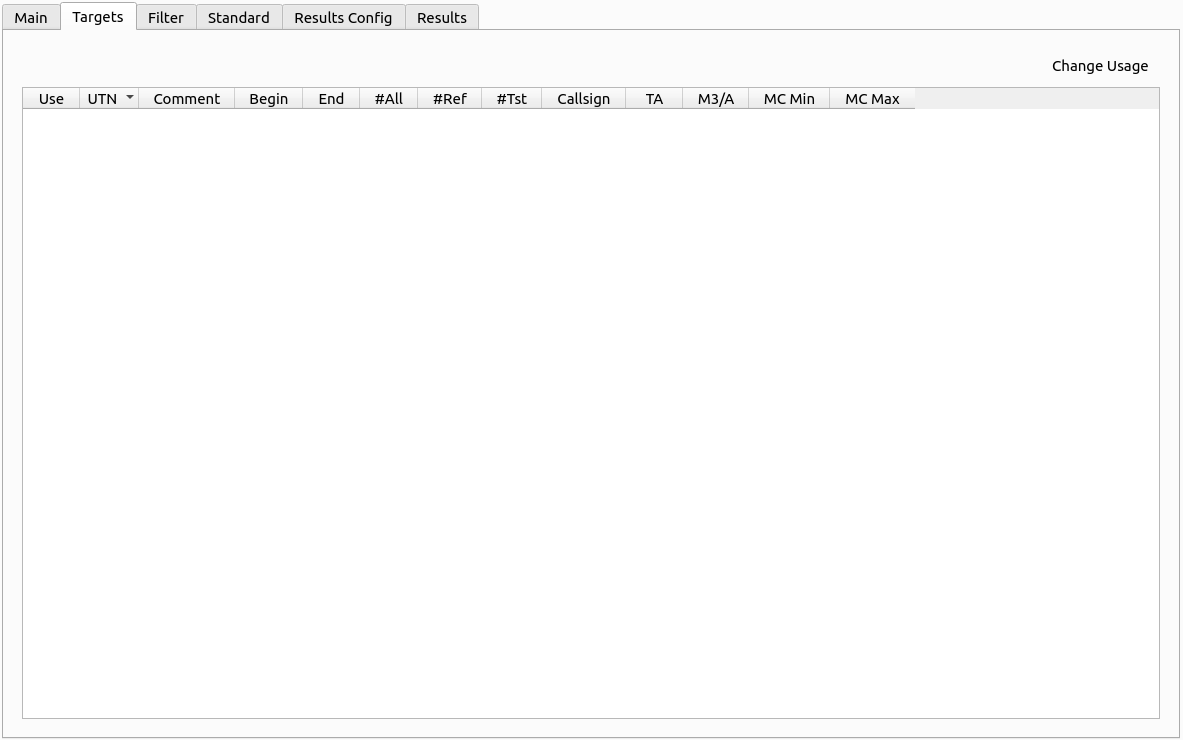
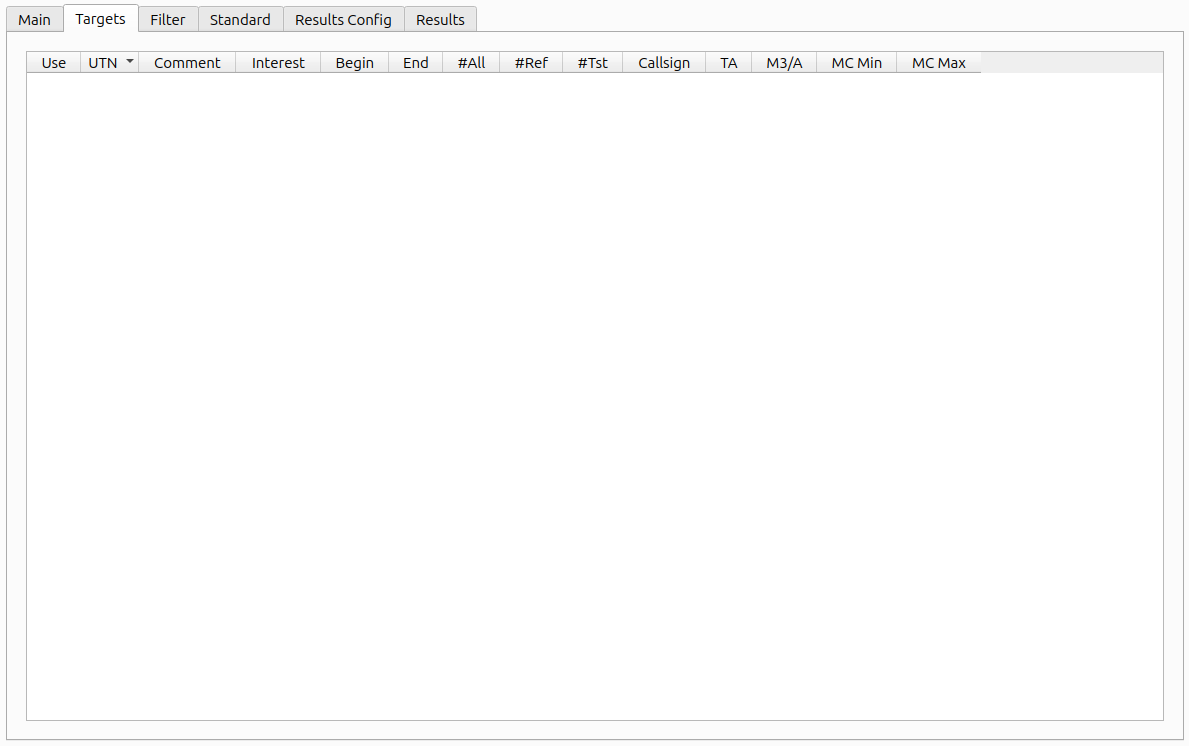
doc up

Changed region(s): [[0.0, 0.0, 1.0, 1.0]]

diff --git a/doc/user_manual/eval/evaluation.tex b/doc/user_manual/eval/evaluation.tex
@@ -16,13 +16,7 @@ The 'Evaluation' tab allows adapting/defining requirement-based standards and co
 
 While it is possible to manually remove single targets from the evaluation, the usage of correct reference data is paramount for the significance of the evaluation results. \\
 
-\includegraphics[width=0.5cm]{../../data/icons/hint.png} \textbf{Please note that the evaluation feature should not be used as a sole basis for decision making - especially not without manually verifying the evaluation results.} \\
-
-There will be improvements in the next releases, and further verification of the results by the author and other users.
-
-\subsection{Target Report Associations}
-
-Since the task only makes use of the Mode S address, non-Mode S data is not evaluated and may even show up as gaps/misses in detection.
+\includegraphics[width=0.5cm]{../../data/icons/hint.png} \textbf{Please note that the evaluation feature should not be used as a sole basis for decision making - especially not without manually verifying the evaluation results.}
 
 \subsection{Sector Altitude Filtering}
 
@@ -45,7 +39,7 @@ To give a few examples what this could mean:
 \end{itemize}
 \ \\
 
-Also, since target secondary attributes (currently only Mode S address) are also used in the 'Target Report Association' task, errors in these attributes might also lead to imperfect data association. This would result in wrong evaluation results in almost all requirements.
+Also, since target secondary attributes are used in the 'Reconstruct References' task, errors in these attributes might also lead to imperfect data association, which could in turn result in wrong evaluation results in some requirements.
 
 \section{Overview}
 \label{sec:eval_overview} 
@@ -165,13 +159,14 @@ The following columns exist:
 \begin{itemize}  
 \item Use: Checkbox defining if the target should be used in the evaluation
 \item UTN: Unique Target Number
+\item Comment: User comment, can be set with double-click, persisted into database
 \item Begin: First timestamp of UTN
 \item End: Last timestamp of UTN
 \item \#All: Sum number of target reports
 \item \#Ref: Number of target reports in reference data
 \item \#Tst: Number of target reports in test data
-\item Callsign: Target identification(s)
-\item TA: Target address (hexadecimal)
+\item ACIDs: Mode S aircraft identification(s)
+\item ACADs: Mode S aircraft address (hexadecimal)
 \item M3/A: Mode 3/A code(s) (octal)
 \item MC Min: Mode C code minimum [ft]
 \item MC Max: Mode C code maximum [ft]
@@ -186,6 +181,14 @@ After loading the data, the table can look as follows:
   \hspace*{-2cm}
     \includegraphics[width=18cm,frame]{figures/eval_targets_loaded.png}
   \caption{Evaluation Targets tab with loaded data}
+\end{figure}
+
+After evaluation (and sorting by interest), the table can look as follows:
+
+\begin{figure}[H]
+  \hspace*{-2cm}
+    \includegraphics[width=18cm,frame]{figures/eval_targets_eval.png}
+  \caption{Evaluation Targets tab with evaluated data}
 \end{figure}
 
 \subsection{Filter Tab}

diff --git a/src/eval/results/base/single.cpp b/src/eval/results/base/single.cpp
@@ -434,7 +434,7 @@ void Single::generateDetailsTable(EvaluationResultsReport::Section& utn_req_sect
 */
 std::vector<std::string> Single::targetTableHeadersCommon() const
 {
-    return { "UTN", "Begin", "End", "Callsign", "TA", "M3/A", "MC Min", "MC Max" };
+    return { "UTN", "Begin", "End", "ACIDs", "ACADs", "M3/A", "MC Min", "MC Max" };
 }
 
 /**
@@ -526,15 +526,15 @@ std::vector<QVariant> Single::targetTableValues() const
 */
 std::vector<Single::TargetInfo> Single::targetInfosCommon() const
 {
-    return { { "UTN"         , "Unique Target Number"           , utn_                             },
-             { "Begin"       , "Begin time of target"           , target_->timeBeginStr().c_str()  },
-             { "End"         , "End time of target"             , target_->timeEndStr().c_str()    },
-             { "Callsign"    , "Mode S target identification(s)", target_->acidsStr().c_str()      }, 
-             { "Target Addr.", "Mode S target address(es)"      , target_->acadsStr().c_str()      },
-             { "Mode 3/A"    , "Mode 3/A code(s)"               , target_->modeACodesStr().c_str() }, 
-             { "Mode C Min"  , "Minimum Mode C code [ft]"       , target_->modeCMinStr().c_str()   },
-             { "Mode C Max"  , "Maximum Mode C code [ft]"       , target_->modeCMaxStr().c_str()   },
-             { "Use"         , "To be used in results"          , use_                             } };
+    return { { "UTN"         , "Unique Target Number"            , utn_                             },
+             { "Begin"       , "Begin time of target"            , target_->timeBeginStr().c_str()  },
+             { "End"         , "End time of target"              , target_->timeEndStr().c_str()    },
+             { "ACIDs"       , "Mode S aicraft identification(s)", target_->acidsStr().c_str()      },
+             { "ACADs"       , "Mode S aircraft address(es)"     , target_->acadsStr().c_str()      },
+             { "Mode 3/A"    , "Mode 3/A code(s)"                , target_->modeACodesStr().c_str() },
+             { "Mode C Min"  , "Minimum Mode C code [ft]"        , target_->modeCMinStr().c_str()   },
+             { "Mode C Max"  , "Maximum Mode C code [ft]"        , target_->modeCMaxStr().c_str()   },
+             { "Use"         , "To be used in results"           , use_                             } };
 }
 
 /**

diff --git a/src/task/import/gps/gpstrailimporttaskwidget.cpp b/src/task/import/gps/gpstrailimporttaskwidget.cpp
@@ -161,7 +161,7 @@ void GPSTrailImportTaskWidget::addConfigTab()
     // target address
 
     ++row;
-    set_target_address_check_ = new QCheckBox("Target Address (hexadecimal)");
+    set_target_address_check_ = new QCheckBox("Aircraft Address (hexadecimal)");
     connect(set_target_address_check_, &QCheckBox::clicked, this, &GPSTrailImportTaskWidget::targetAddressCheckedSlot);
     grid->addWidget(set_target_address_check_, row, 0);
 
@@ -174,7 +174,7 @@ void GPSTrailImportTaskWidget::addConfigTab()
     // callsign
 
     ++row;
-    set_callsign_check_ = new QCheckBox("Callsign");
+    set_callsign_check_ = new QCheckBox("Aircraft Identification");
     connect(set_callsign_check_, &QCheckBox::clicked, this, &GPSTrailImportTaskWidget::callsignCheckedSlot);
     grid->addWidget(set_callsign_check_, row, 0);
 

diff --git a/src/task/import/gps/gpsimportcsvtaskwidget.cpp b/src/task/import/gps/gpsimportcsvtaskwidget.cpp
@@ -146,7 +146,7 @@ void GPSImportCSVTaskWidget::addConfigTab()
     // target address
 
     ++row;
-    set_target_address_check_ = new QCheckBox("Target Address (hexadecimal)");
+    set_target_address_check_ = new QCheckBox("Aircraft Address (hexadecimal)");
     connect(set_target_address_check_, &QCheckBox::clicked, this, &GPSImportCSVTaskWidget::targetAddressCheckedSlot);
     grid->addWidget(set_target_address_check_, row, 0);
 
@@ -159,7 +159,7 @@ void GPSImportCSVTaskWidget::addConfigTab()
     // callsign
 
     ++row;
-    set_callsign_check_ = new QCheckBox("Callsign");
+    set_callsign_check_ = new QCheckBox("Aircraft Identification");
     connect(set_callsign_check_, &QCheckBox::clicked, this, &GPSImportCSVTaskWidget::callsignCheckedSlot);
     grid->addWidget(set_callsign_check_, row, 0);
 

diff --git a/src/eval/data/evaluationdatawidget.cpp b/src/eval/data/evaluationdatawidget.cpp
@@ -37,17 +37,6 @@ EvaluationDataWidget::EvaluationDataWidget(EvaluationData& eval_data, Evaluation
     QVBoxLayout* main_layout = new QVBoxLayout();
 
     // toolbar
-//    toolbar_ = new QToolBar("Tools");
-
-//    QWidget* spacer = new QWidget();
-//    spacer->setSizePolicy(QSizePolicy::Expanding, QSizePolicy::Expanding);
-//    toolbar_->addWidget(spacer);
-
-//    toolbar_->addAction("Change Usage");
-
-//    connect(toolbar_, &QToolBar::actionTriggered, this, &EvaluationDataWidget::actionTriggeredSlot);
-
-//    main_layout->addWidget(toolbar_);
 
     // table
     proxy_model_ = new QSortFilterProxyModel();

diff --git a/src/eval/data/evaluationdata.cpp b/src/eval/data/evaluationdata.cpp
@@ -446,11 +446,11 @@ QVariant EvaluationData::data(const QModelIndex& index, int role) const
         {
             return target.numTstUpdates();
         }
-        else if (col_name == "Callsign")
+        else if (col_name == "ACIDs")
         {
             return target.acidsStr().c_str();
         }
-        else if (col_name == "TA")
+        else if (col_name == "ACADs")
         {
             return target.acadsStr().c_str();
         }

diff --git a/src/eval/data/evaluationdata.h b/src/eval/data/evaluationdata.h
@@ -116,7 +116,7 @@ protected:
     DBContentManager& dbcont_man_;
 
     QStringList table_columns_ {"Use", "UTN", "Comment", "Interest",
-                               "Begin", "End", "#All", "#Ref", "#Tst", "Callsign", "TA",
+                               "Begin", "End", "#All", "#Ref", "#Tst", "ACIDs", "ACADs",
                                 "M3/A", "MC Min", "MC Max"};
 
     std::shared_ptr<dbContent::DBContentAccessor> accessor_;
